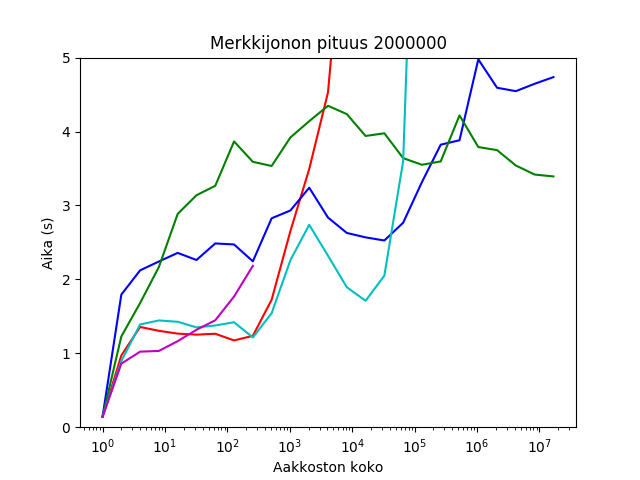
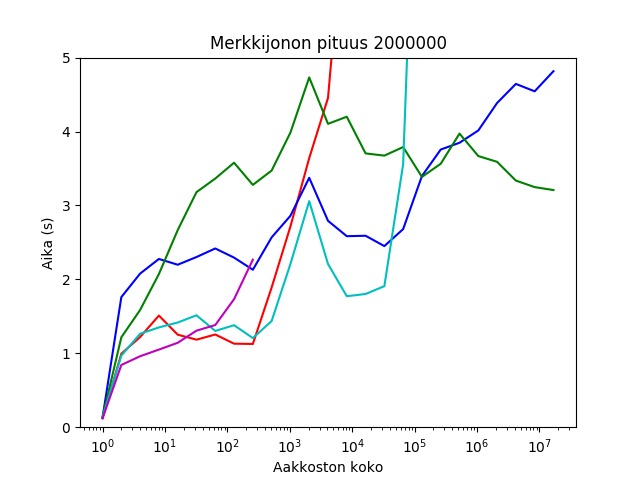
dokumentaatiota...

diff --git a/bin/speedtest/alphabet_tests.py b/bin/speedtest/alphabet_tests.py
@@ -1,6 +1,7 @@
 #coding: utf-8
 import matplotlib.pyplot as plt
 import os
+import random
 
 MAX=(1<<25)
 
@@ -21,35 +22,61 @@ def test_program(nimi):
     time=float(data[0][:-1])
     return time
 
-def test(koko, maksimi, program, times):
-    s=0
-    for i in range(times): 
-        gener(koko, maksimi)
-        s+=test_program(program)
-    return s/times
+def test(koko, maksimi, program):
+    gener(koko, maksimi)
+    return test_program(program)
 
-x=[1, 2, 4, 8, 16, 32, 64, 128, 256, 512, 1024, 2048, 4096, 8192, 16384]
-y=[[0.14, 0.91, 1.27, 1.34, 1.29, 1.22, 1.26, 1.21, 1.13, 1.69, 2.6, 4.1, 4.87, 7.48, 12.69], [0.15, 1.55, 1.81, 2.08, 2.03, 2.03, 2.13, 2.3, 1.92, 2.4, 2.65, 3.43, 3.45, 2.64, 2.18], [0.15, 1.21, 1.59, 2.1, 2.67, 3.08, 3.05, 3.97, 3.19, 3.23, 4.04, 4.76, 4.77, 3.67, 3.84], [0.14, 0.94, 1.3, 1.42, 1.38, 1.34, 1.33, 1.56, 1.23, 1.46, 2.44, 3.09, 2.49, 1.76, 1.74], [0.13, 0.86, 0.96, 1.03, 1.12, 1.28, 1.39, 1.7, 2.17]]
+x=[1, 2, 4, 8, 16, 32, 64, 128, 256, 512, 1024, 2048, 4096, 8192, 16384, 32768, 65536, 131072, 262144, 524288, 1048576, 2097152, 4194304, 8388608, 16777216]
+y=[[0.14, 0.94, 1.27, 1.37, 1.32, 1.36, 1.28, 1.16, 1.18, 1.77, 2.76, 3.46, 4.57, 8.21], [0.23, 1.79, 2.24, 2.38, 2.35, 2.99, 2.4, 3.44, 2.19, 2.71, 3.26, 3.16, 2.99, 4.4, 3.0, 2.48, 2.96, 3.25, 4.11, 3.92, 4.04, 4.36, 4.59, 4.63, 4.88], [0.14, 1.2, 1.6, 2.33, 2.77, 3.16, 3.27, 3.72, 3.64, 3.53, 5.0, 4.96, 4.43, 4.59, 4.15, 5.48, 3.55, 3.58, 4.66, 5.78, 3.72, 4.19, 3.78, 3.64, 3.64], [0.14, 0.91, 1.34, 1.62, 1.54, 1.4, 1.52, 1.52, 1.25, 1.5, 2.36, 2.76, 2.31, 1.9, 1.73, 1.96, 3.63, 11.19], [0.13, 0.93, 1.23, 1.13, 1.2, 1.32, 1.45, 1.8, 3.15]]
 
+
+
+def program_name(index):
+    if index==0: return "./speedtest"
+    if index==1: return "./speedtest_fastset"
+    if index==2: return "./speedtest_stdset"
+    if index==3: return "./speedtest_binary_search"
+    if index==4: return "./speedtest_array"
 
 def test_all(times):
     global x, y
     alphabet_size=1
     x=[]
     y=[[], [], [], [], []]
-
+    results=[{}, {}, {}, {}, {}]
+    tests=[]
     while alphabet_size<MAX:
-        print "TESTING:", alphabet_size
         x.append(alphabet_size)
-        y[1].append(test(2000000, alphabet_size, "./speedtest_fastset", times))
-        y[2].append(test(2000000, alphabet_size, "./speedtest_stdset", times))
-        if alphabet_size<10000:
-            y[0].append(test(2000000, alphabet_size, "./speedtest", times))
-        if alphabet_size<500:
-            y[4].append(test(2000000, alphabet_size, "./speedtest_array", times))
-        if alphabet_size<200000:
-            y[3].append(test(2000000, alphabet_size, "./speedtest_binary_search", times))
+        y[1].append(0)
+        y[2].append(0)
+        if alphabet_size<10000: y[0].append(0)
+        if alphabet_size<500: y[4].append(0)
+        if alphabet_size<200000: y[3].append(0)
+
+        for i in range(times):
+            tests.append((1, alphabet_size))
+            tests.append((2, alphabet_size))
+            if alphabet_size<10000:
+                tests.append((0, alphabet_size))
+            if alphabet_size<500:
+                tests.append((4, alphabet_size))
+            if alphabet_size<200000:
+                tests.append((3, alphabet_size))
         alphabet_size*=2
+
+    random.shuffle(tests) #Run tests in random order
+    print "START TESTING."
+    for i in range(len(tests)):
+        print "TEST ", i, "/", len(tests)
+        program_id=tests[i][0] 
+        asz=tests[i][1]
+        if not asz in results[program_id]: results[program_id][asz]=[]
+        results[program_id][asz].append(test(2000000, asz, program_name(program_id)))
+
+    for program_id in range(5):
+        for alphabet_size in results[program_id]:
+            result=sum(results[program_id][alphabet_size])/times
+            y[program_id][x.index(alphabet_size)]=result
 
 def plot():
     global x, y
@@ -63,3 +90,5 @@ def plot():
     plt.show()
 test_all(5)
 plot()
+print x
+print y

diff --git a/src/speedtest/gener.cpp b/src/speedtest/gener.cpp
@@ -8,6 +8,7 @@ int MX=32;
 
 int main(int argc, char** argv){
     ios_base::sync_with_stdio(0); cin.tie(0);
+    srand(time(NULL));
     for (int i=0; i<argc; ++i){
         if (argv[i][0]=='Z'){
             string s(&argv[i][1]);

diff --git a/doc/testausdokumentti.md b/doc/testausdokumentti.md
@@ -34,17 +34,21 @@ Taulukko aikavaatimuksista. Vertailussa mukana olevan std::setin vaatimukset ova
 | Muistinkäyttö        | O(n)          | O(n)                           | O(m*n)                   | O(n)       |
 
 
-Kaaviossa mitatut ajat, kun syötteen koko on 2000000, aakkoston kokoa muutetaan. X-akselilla on logaritminen skaalaus.
+Kaaviossa mitatut ajat, kun syötteen koko on 2000000, aakkoston kokoa muutetaan. X-akselilla on logaritminen skaalaus. Aakkoston kokona on testattu tässä eri 2:n potensseja. Kuvaan on otettu joka koolta viiden kerran keskiarvo. Testit on suoritettu satunnaisessa järjestyksessä, jolloin koneen suoritusnopeuden vaihtelun vaikutus tasoittuu.
 
 ![2000000](https://raw.githubusercontent.com/Hansuzu/tlab/master/doc/alphabet.png)
 
-Punainen viiva: Vector
-Sininen viiva: FastSet
-Syaani viiva: Vector järjestystä ylläpitäen
-Violetti viiva: Taulukko
-Vihreä viiva: std::set
+Punainen viiva: Vector  
+Sininen viiva: FastSet  
+Syaani viiva: Vector järjestystä ylläpitäen  
+Violetti viiva: Taulukko  
+Vihreä viiva: std::set  
 
-Tulosten perusteella pienellä aakkostolla (m<30) Taulukko-ratkaisu on nopein. 
+Tulosten perusteella pienellä aakkostolla (m<20) Taulukko-ratkaisu on nopein. Aakkoston koon ollessa n. välillä 20<m<200 Järjestemätön Vector on nopein. Aakkoston koon kasvaessa muutamasta sadasta muutamaan tuhanteen järjestetty Vector on nopein. Siitä eteenpäin FastSet ja std::set ovat selvästi nopeampia kuin muut.
+
+Violetti viiva loppuu kesken, koska suuremmalla aakkoston koolla muistinkäyttö kasvaisi liian isoksi.
+
+Kuvassa näkyy, miten järjestettyä vectoria, FastSet:iä ja std::set:tiä käyttävät implementaatiot toimivat nopeammin, kun aakkoston koko kasvaa muutamasta tuhannesta muutamaan kymmeneen tuhanteen. Tämä johtunee siitä, että kun aakkoston koko on suuri suhteessa merkkijonon kokoon, puusta tulee matala ja leveä, ja edgejen pituudet (lehtiin meneviä edgejä tietysti lukuunottamatta) ovat lyhyitä. Tällöin tarvittavien edgejen splittausten määrä vähenee ja suurempi osa tiloista on jonkin noden kohdalla, jolloin siirtymien olemasasolon tutkiminen on nopeampaa.
 
 ## LCS
 
